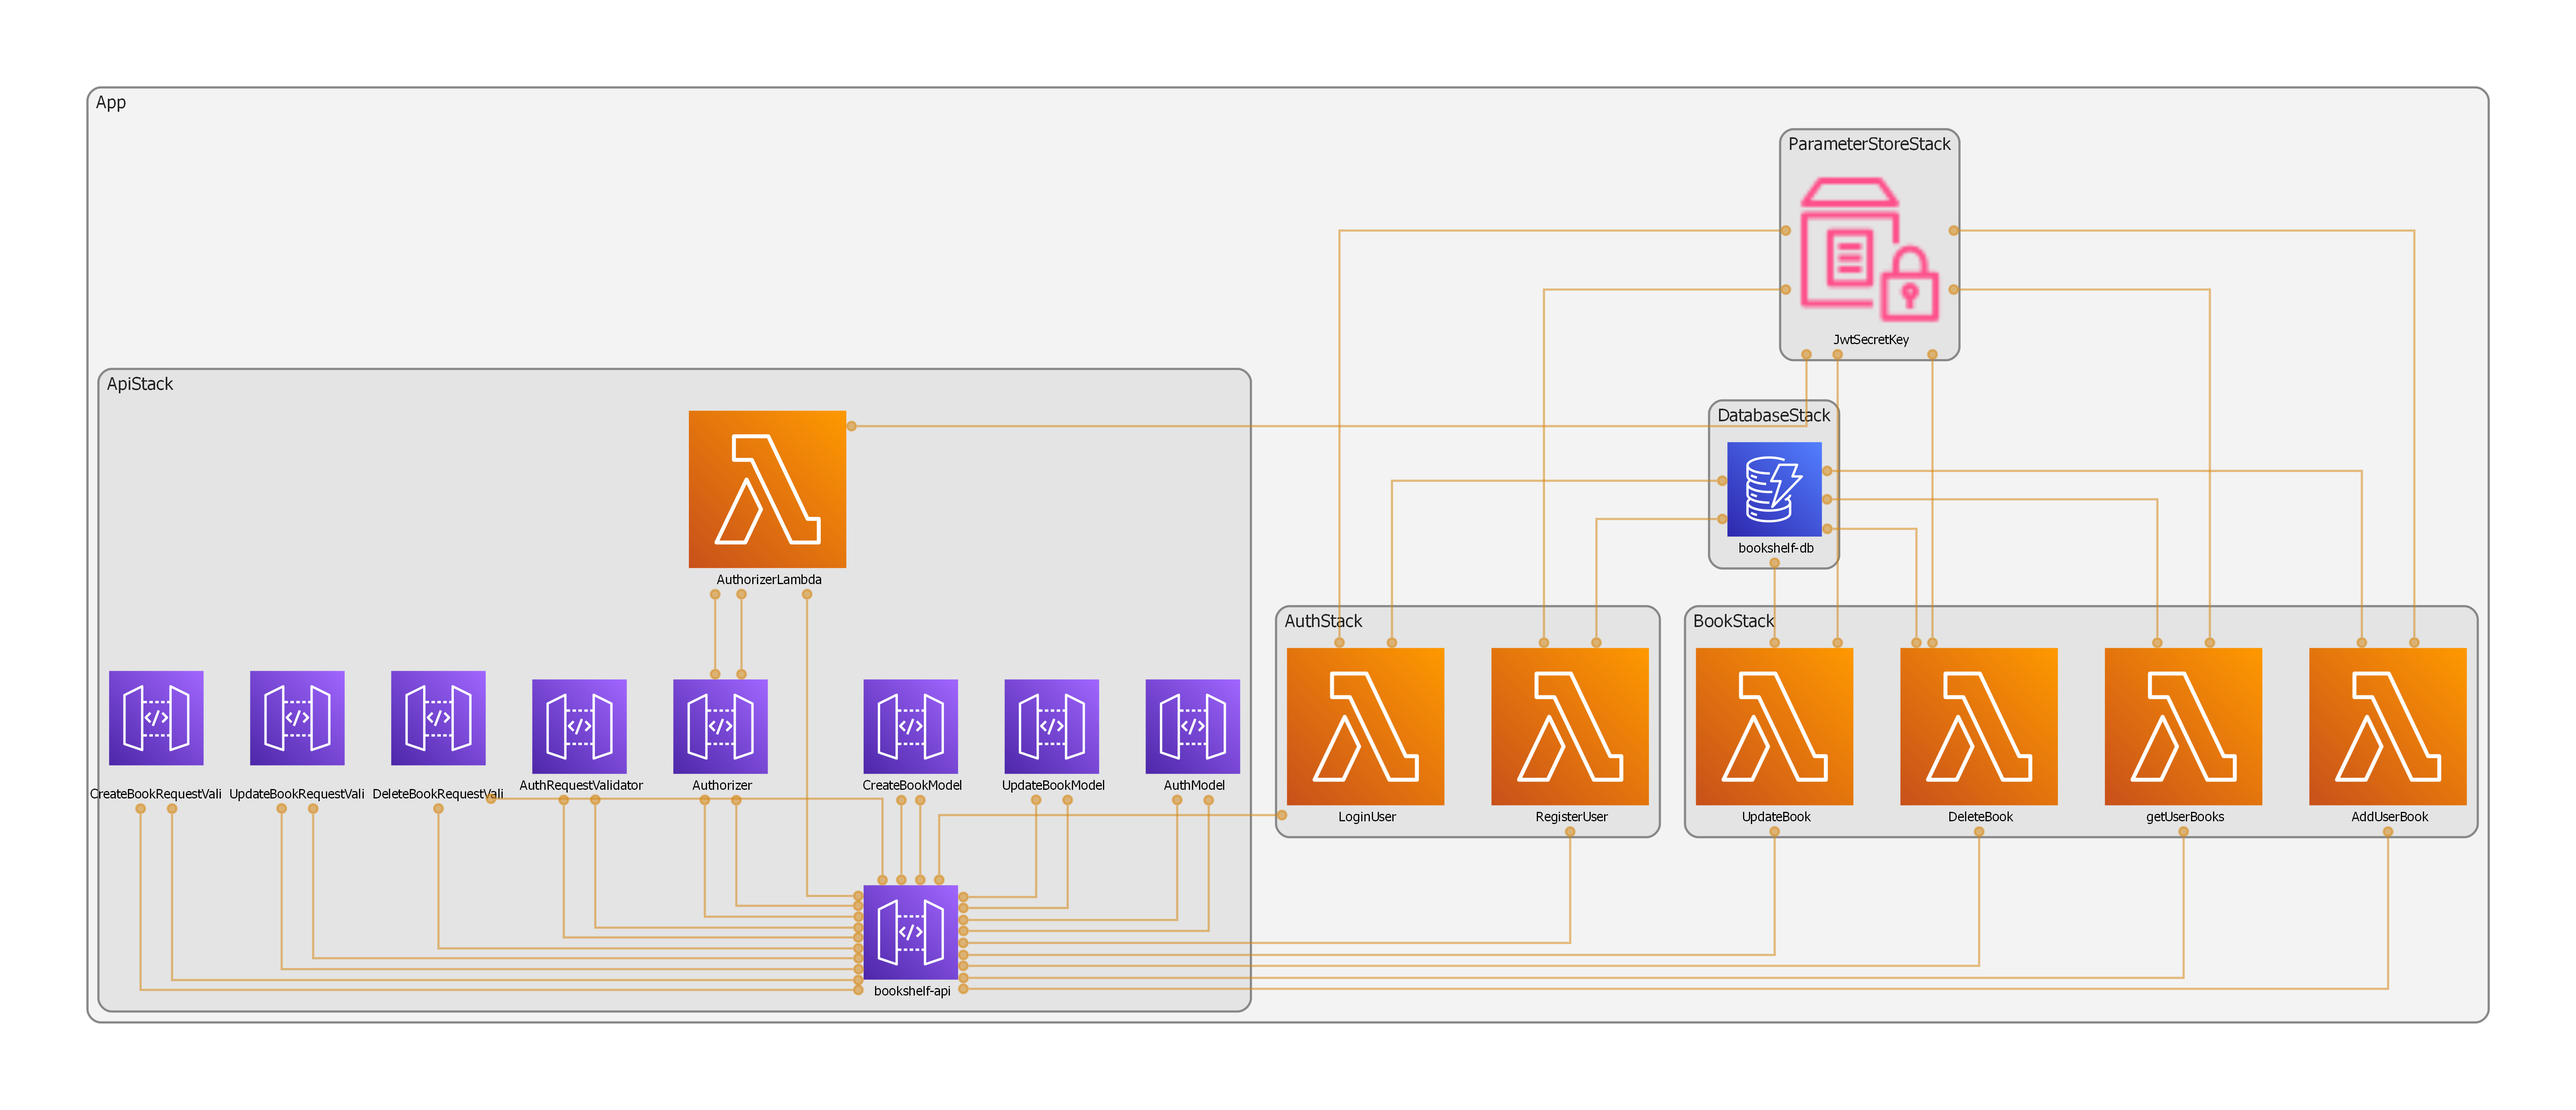
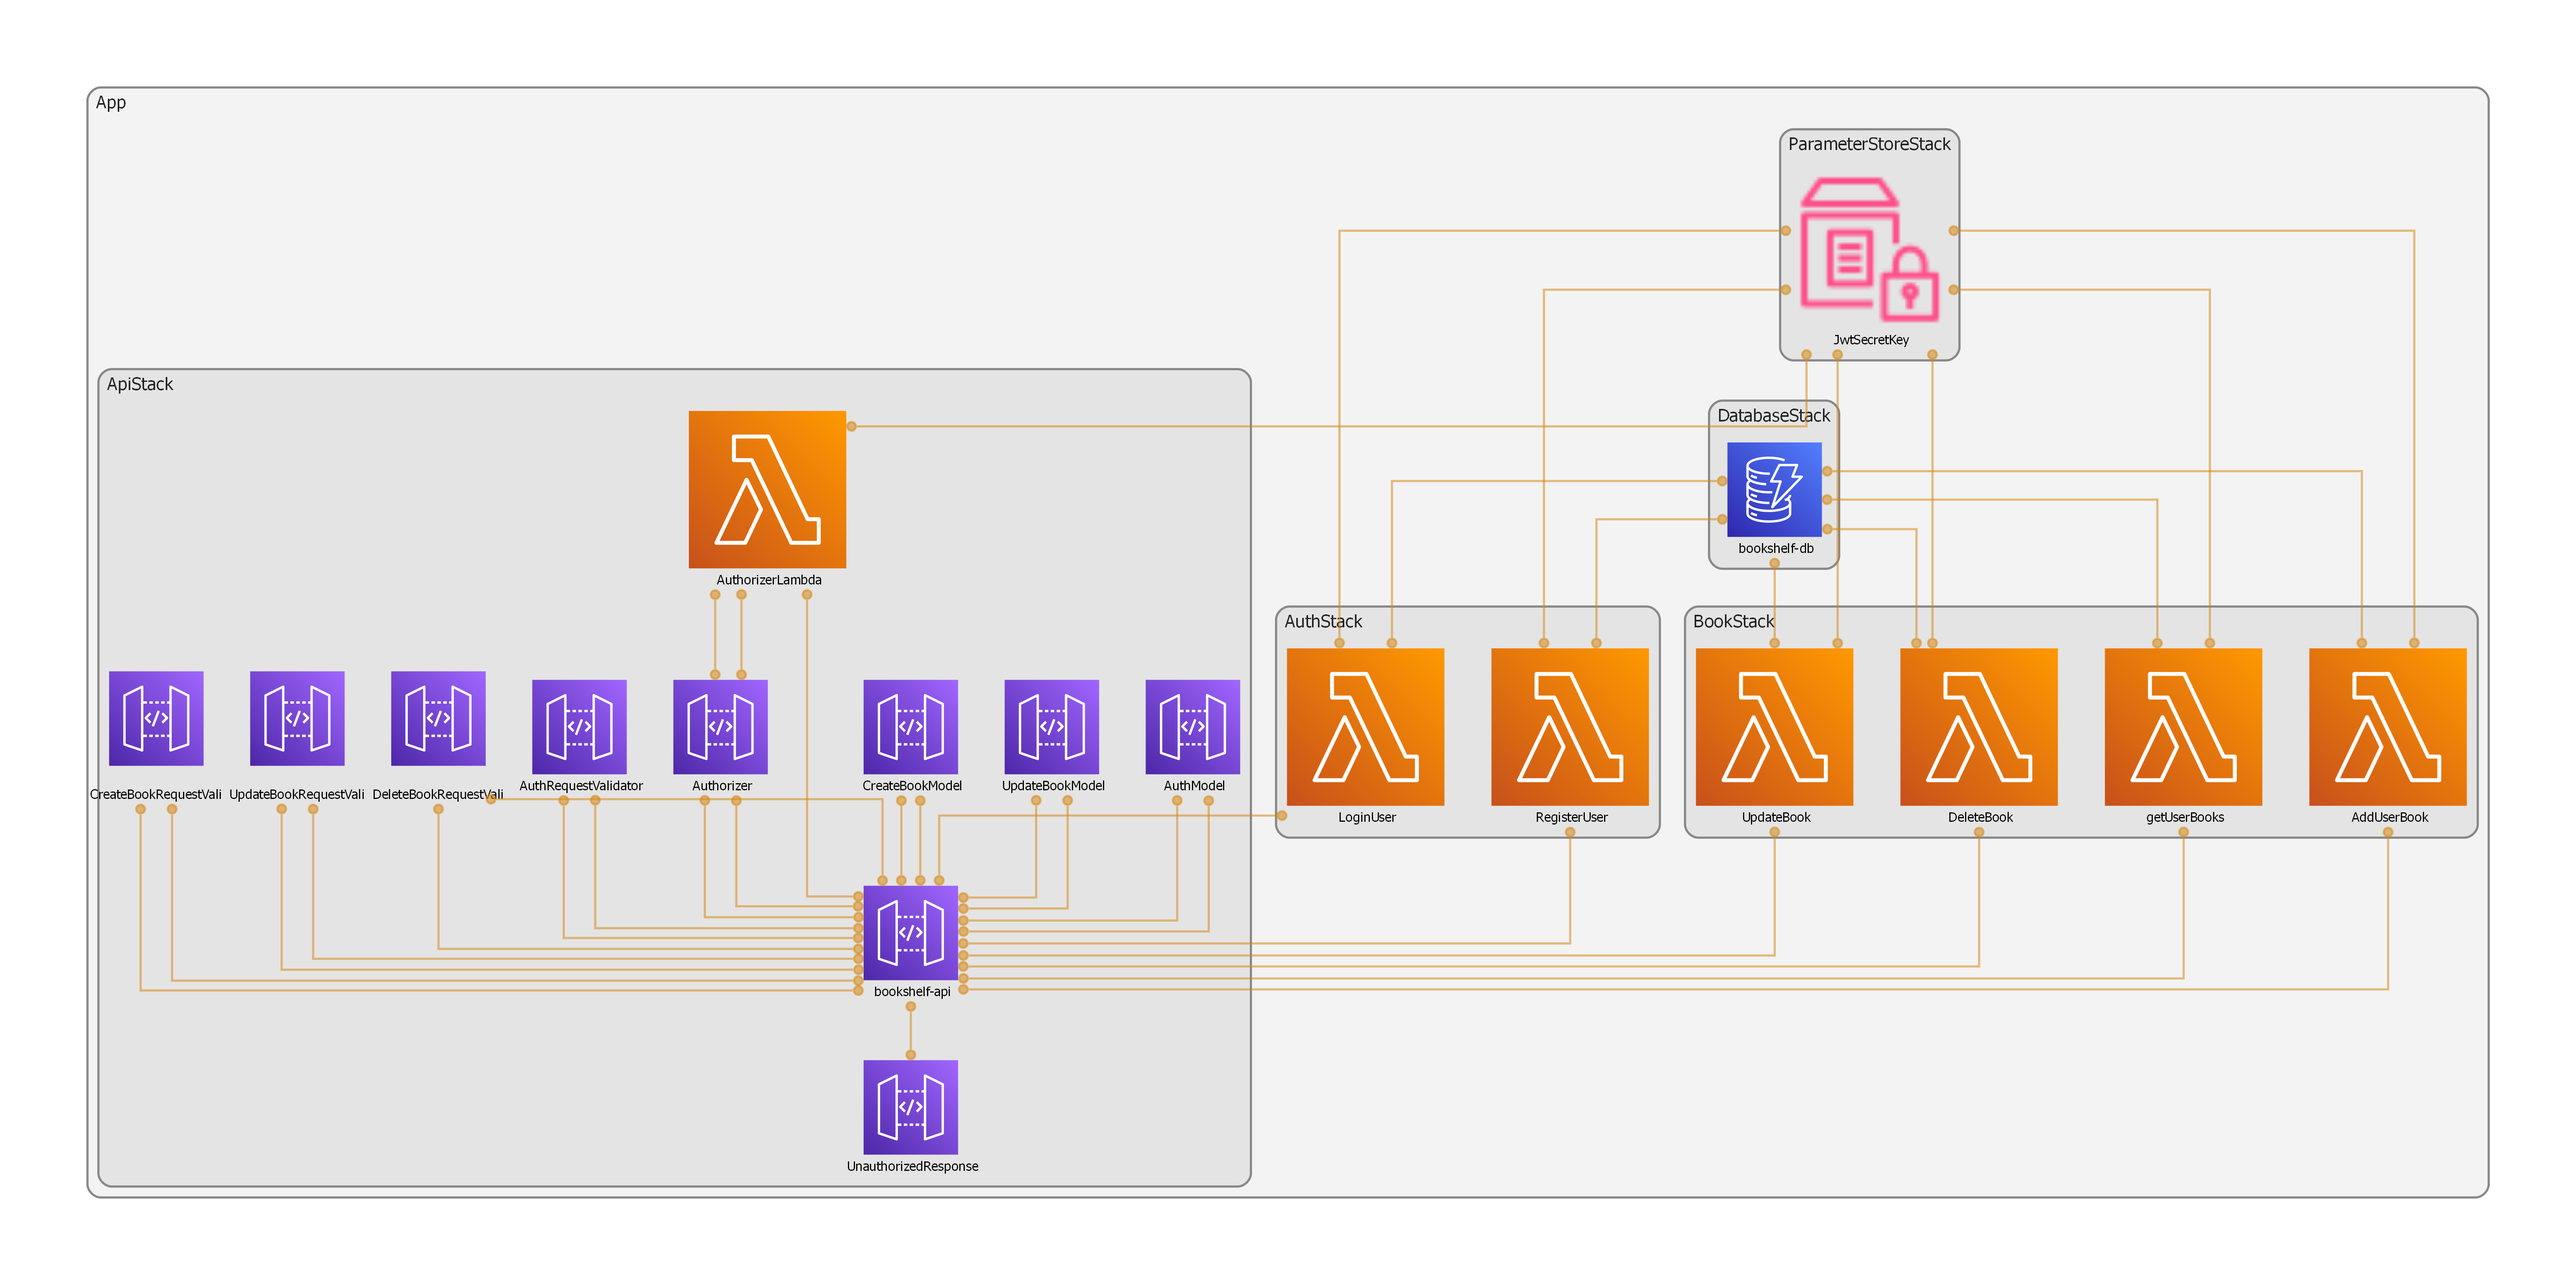
docs: Mention API gateway in readme

Changed region(s): [[0.0312, 0.0624, 0.9664, 0.9355], [0.4676, 0.3118, 0.4988, 0.343], [0.0312, 0.2807, 0.0623, 0.3118]]

diff --git a/README.md b/README.md
@@ -31,6 +31,12 @@ This version is built with **AWS CDK**, integrating multiple AWS services.
     - Used **SSM Parameter Store** to keep the `JWT_SECRET_KEY`.  
     - I could have used AWS Secrets Manager, but for a learning project, Parameter Store was cheaper.  
 
+- AWS API Gateway:
+    - Front door to all backend APIs, routing requests to Lambda functions.
+    - Configured **CORS** for the Vercel frontend.  
+    - Integrated with a **Lambda Authorizer** to validate JWT tokens.  
+    - Added **GatewayResponse** for `401` so unauthorized error responses also include CORS headers.
+
 ## Deployment Steps
 
 ```bash
